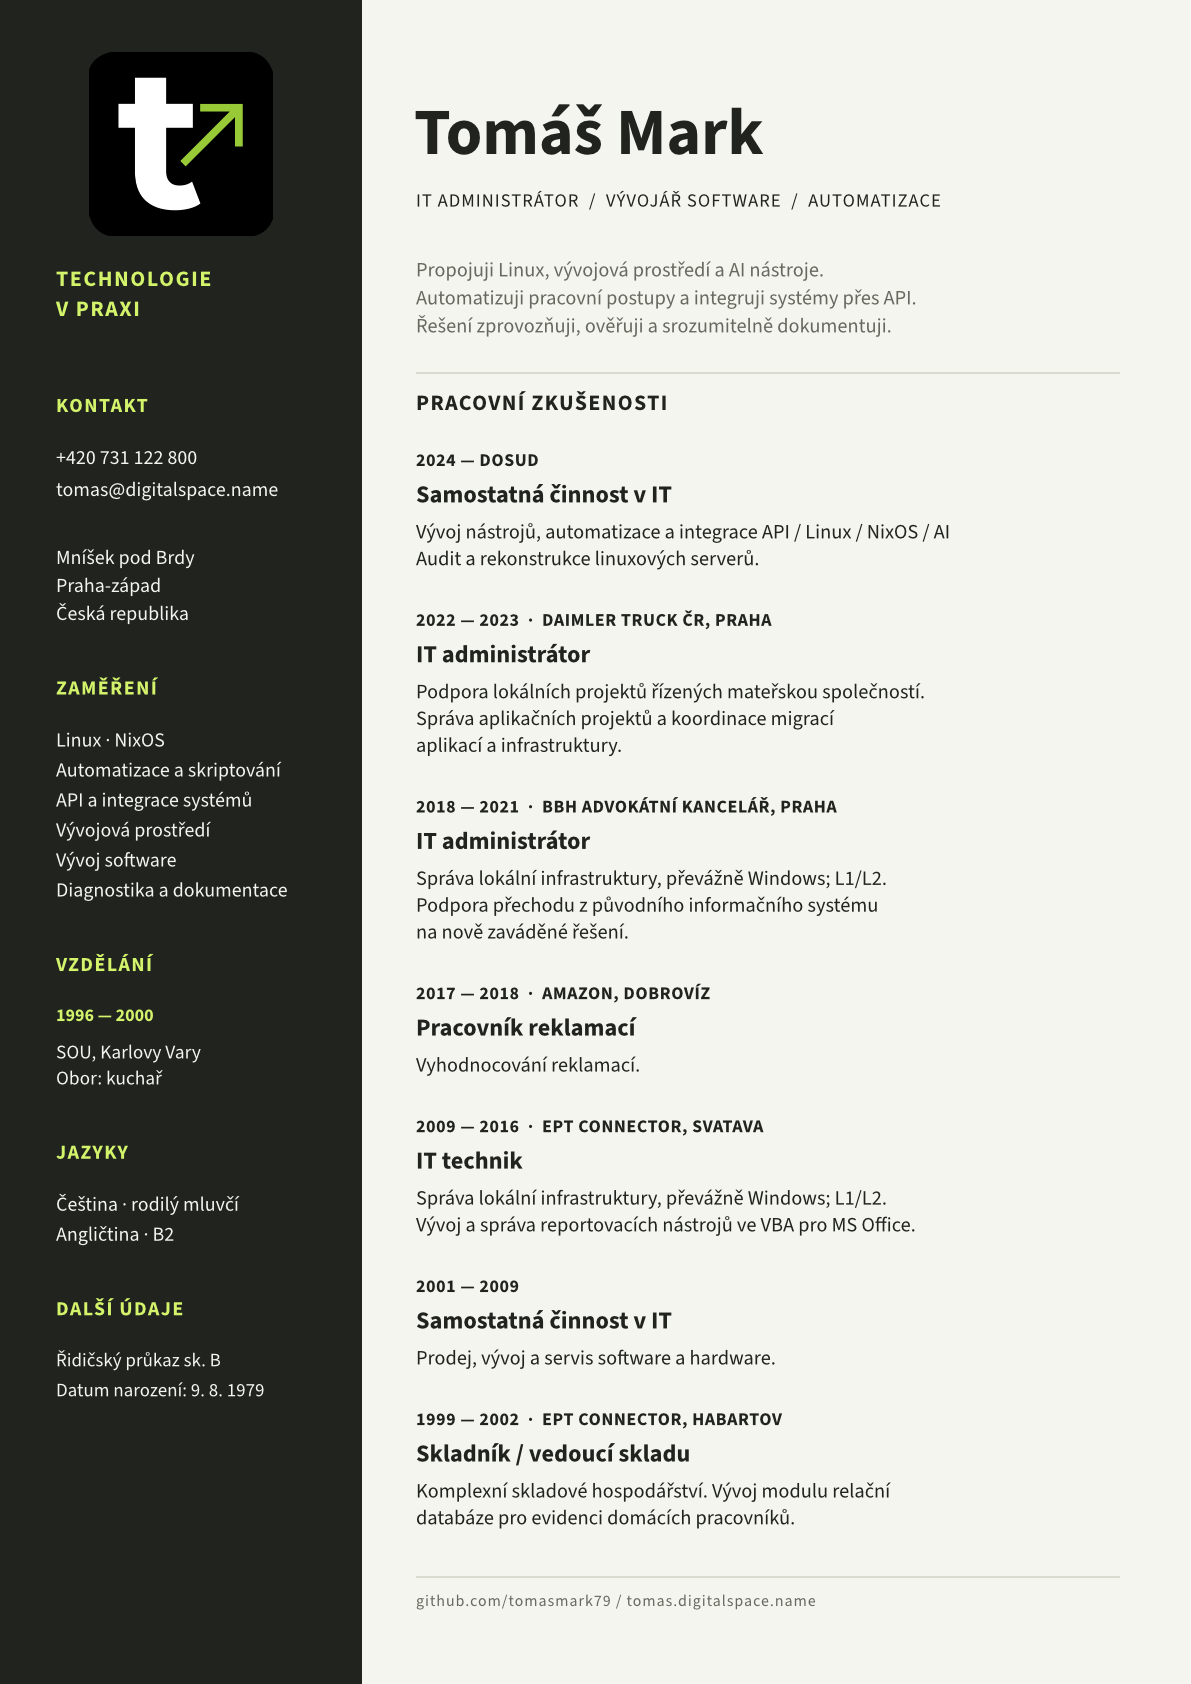
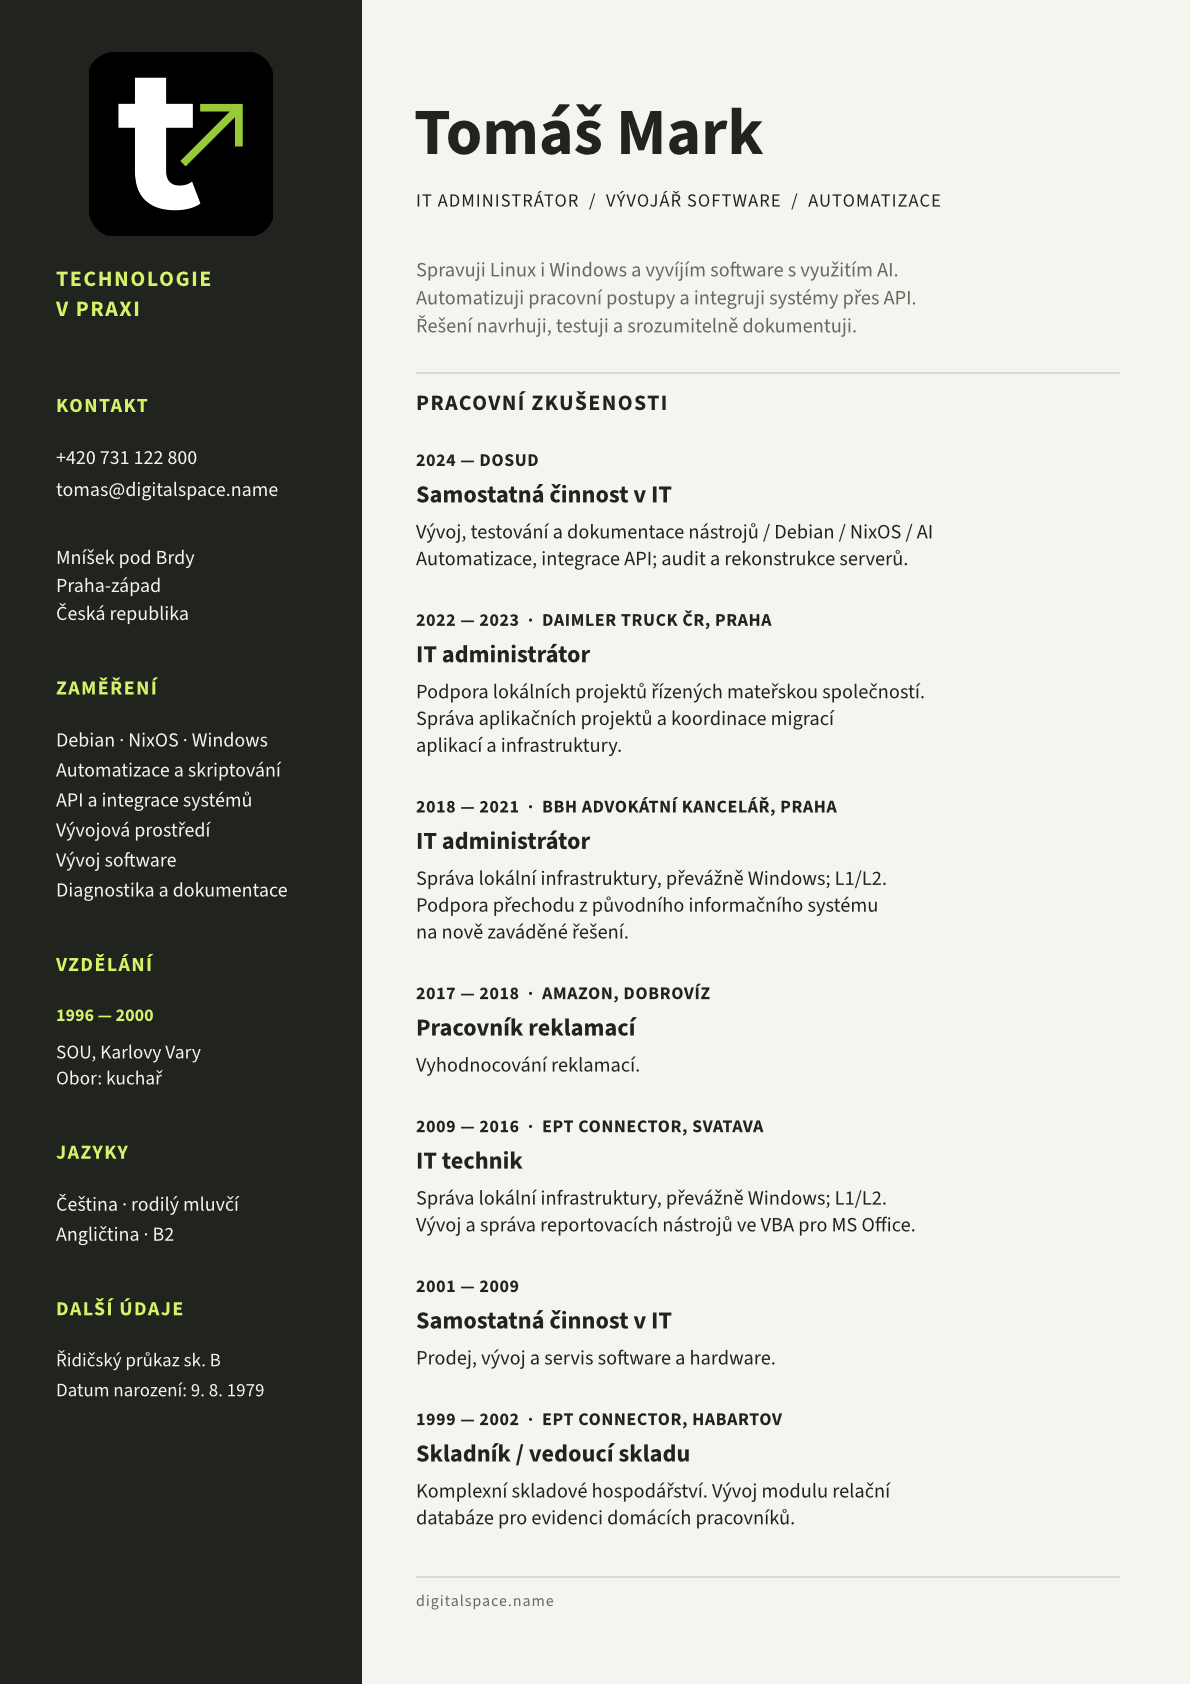
feat: add job profile template with education and experience sections

diff --git a/cv/jobs-profil-template.md b/cv/jobs-profil-template.md
@@ -1,0 +1,19 @@
+# Profil na Jobs — šablona
+
+### Vzdělání a dosavadní zkušenosti
+
+Nenechte se prosím zmást mým vzděláním. Jsem vyučený kuchař, ale bezprostředně po vojně jsem se začal věnovat informačním technologiím, kterým se s různými přestávkami věnuji až do současnosti.
+
+V roce 2011 jsem zahájil také dálkové studium na střední škole v Sokolově. Po přestěhování do Prahy jsem však studium ve čtvrtém pololetí přerušil a dosud se k němu nevrátil.
+
+### Dosavadní zkušenosti
+
+Nejvíce praktických zkušeností jsem v posledních dvou letech získal při práci na různorodých softwarových projektech. Díky nástupu AI jsem měl možnost opakovaně projít celým vývojovým procesem, od návrhu a implementace až po testování, ladění a dokumentaci. Tím jsem získal velmi cenné zkušenosti nejen se samotným vývojem software, ale také s hledáním vhodných řešení a jejich praktickým využitím.
+
+Zaměřoval jsem se především na automatizaci, zlepšování uživatelského komfortu, vývoj doplňků pro prostředí GNOME, automatizaci infrastruktury a vývoj software pro různá embedded zařízení.
+
+Vedle Linuxu mám také praktické zkušenosti se systémy Microsoft Windows a dalšími technologiemi, které se běžně využívají napříč IT.
+
+Vedle samotného vývoje se věnuji také integraci systémů, diagnostice technických problémů a dokumentaci. Baví mě hledat praktická řešení, zjednodušovat opakující se činnosti a zlepšovat fungování technických systémů.
+
+Rád bych své dosavadní zkušenosti dále rozvíjel v prostředí, kde budu mít možnost dlouhodobě pracovat na technických řešeních, získávat nové znalosti a být součástí stabilního týmu.
